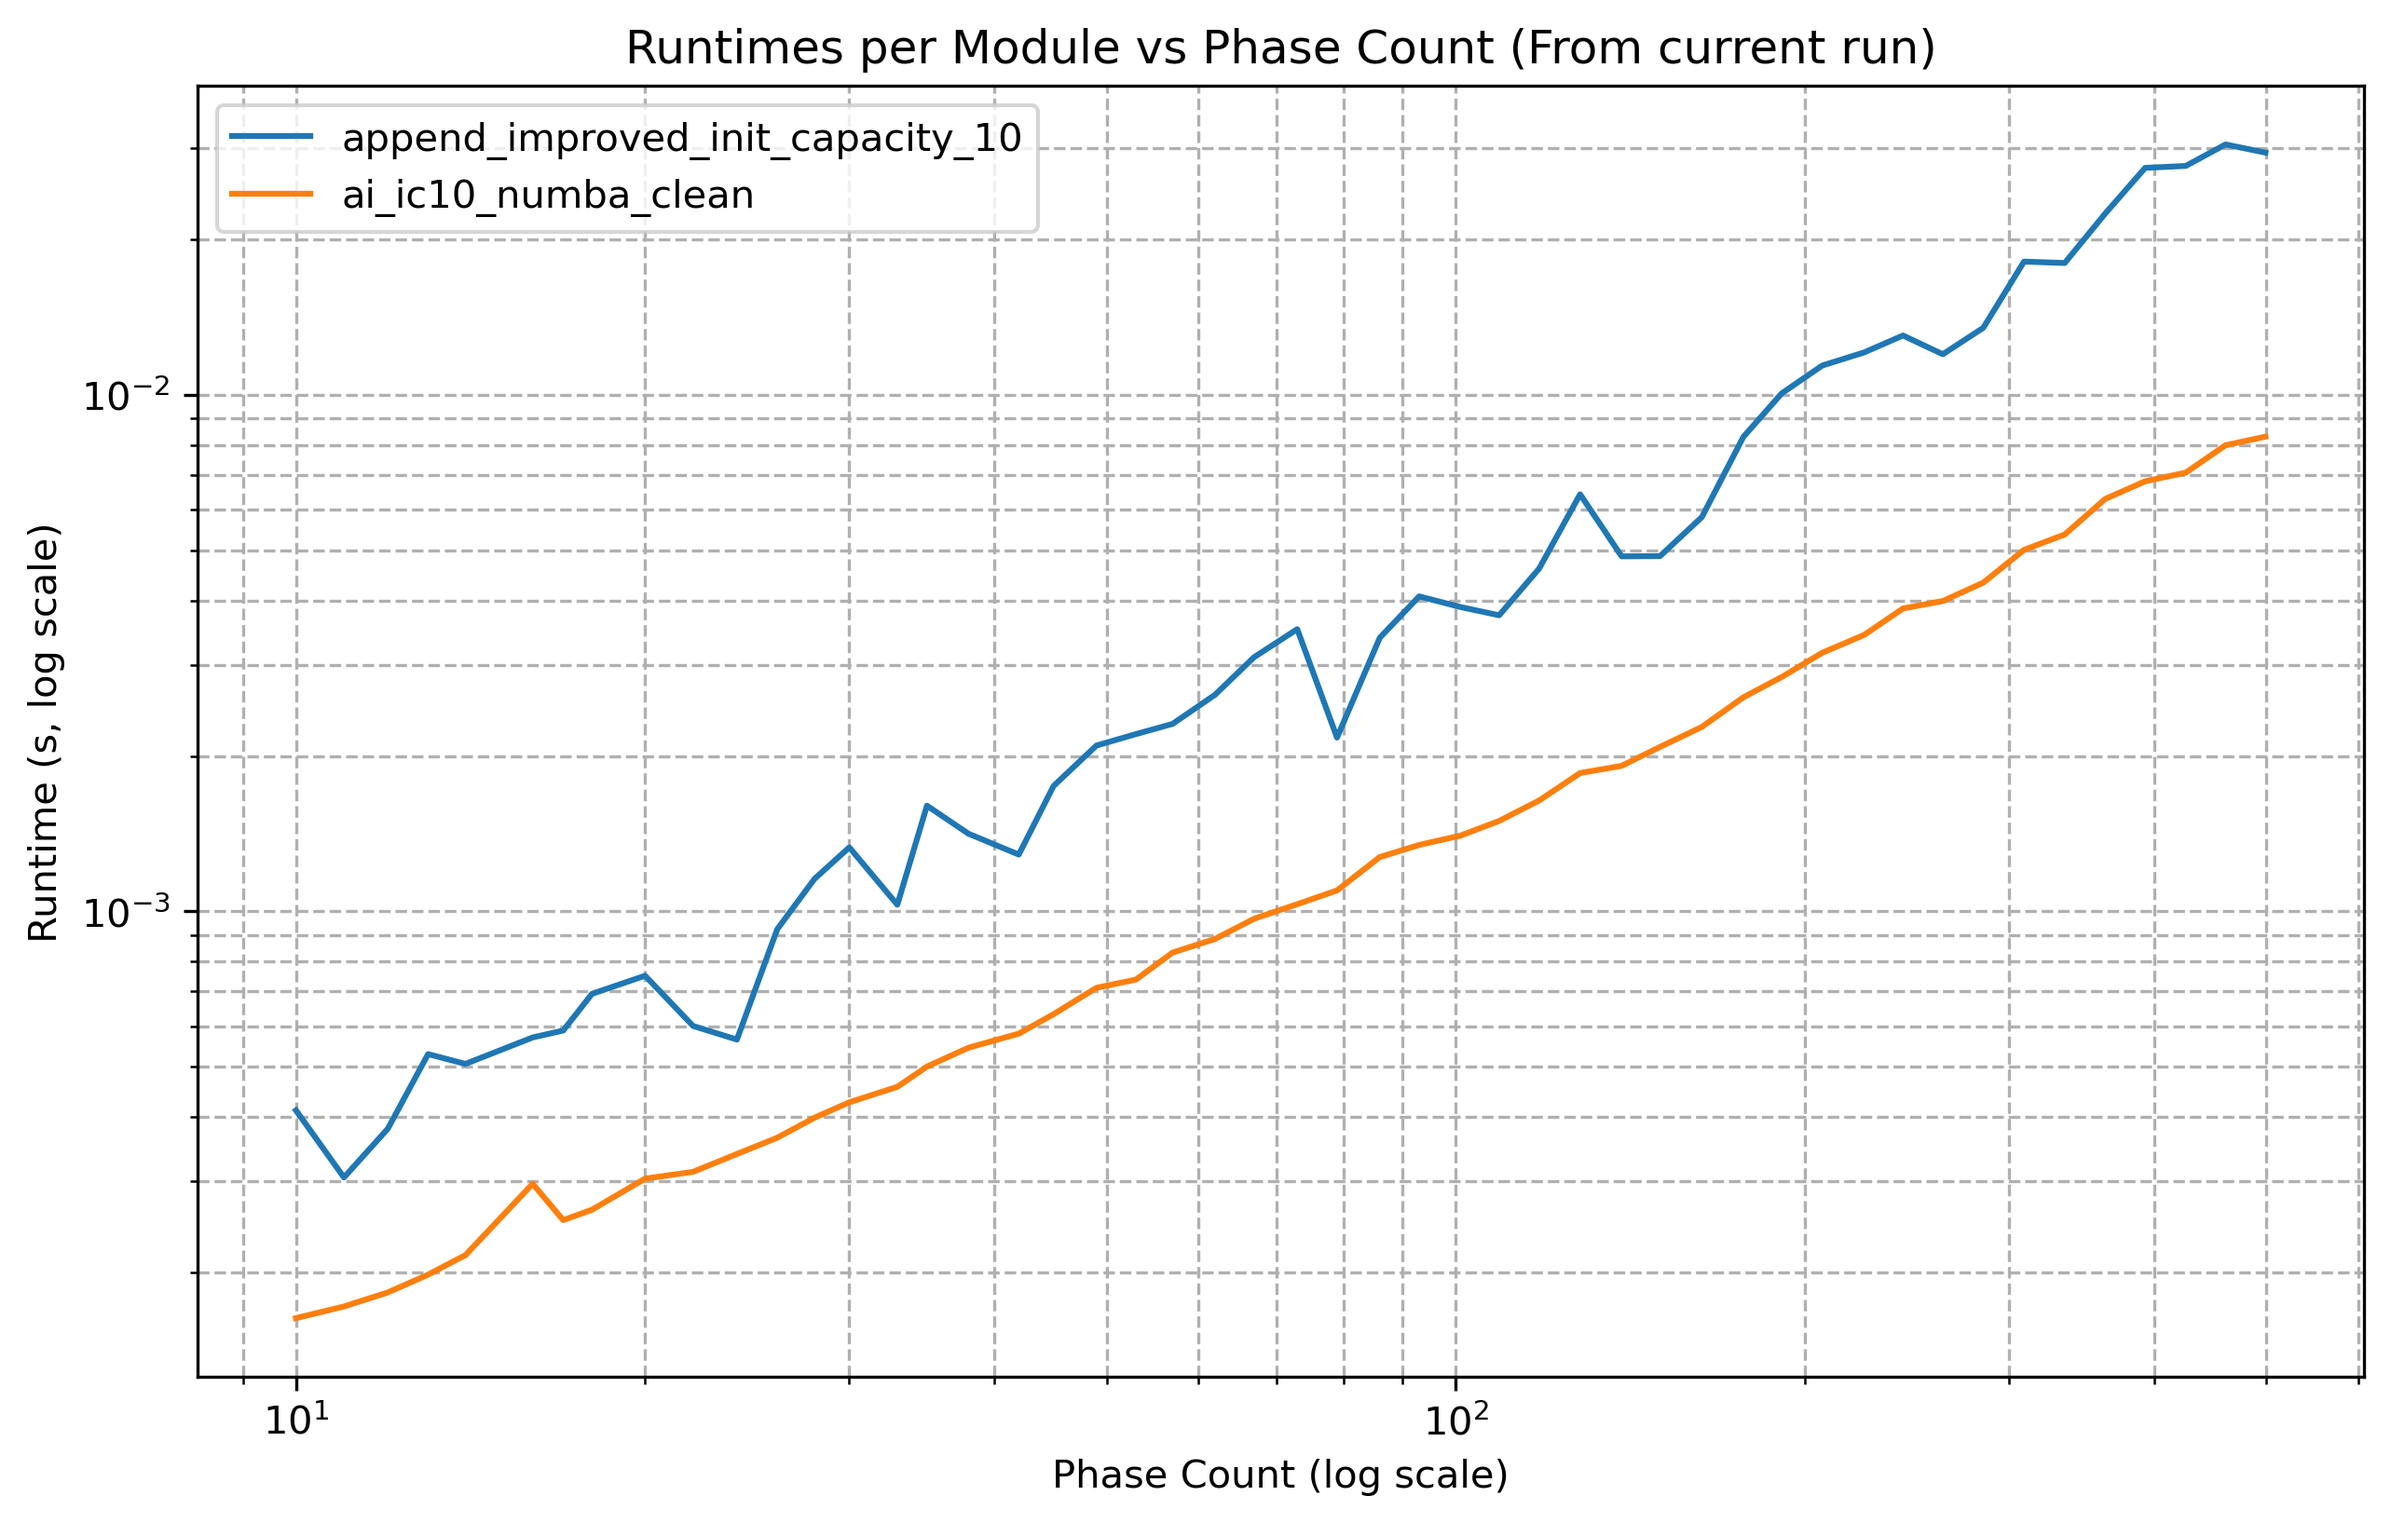
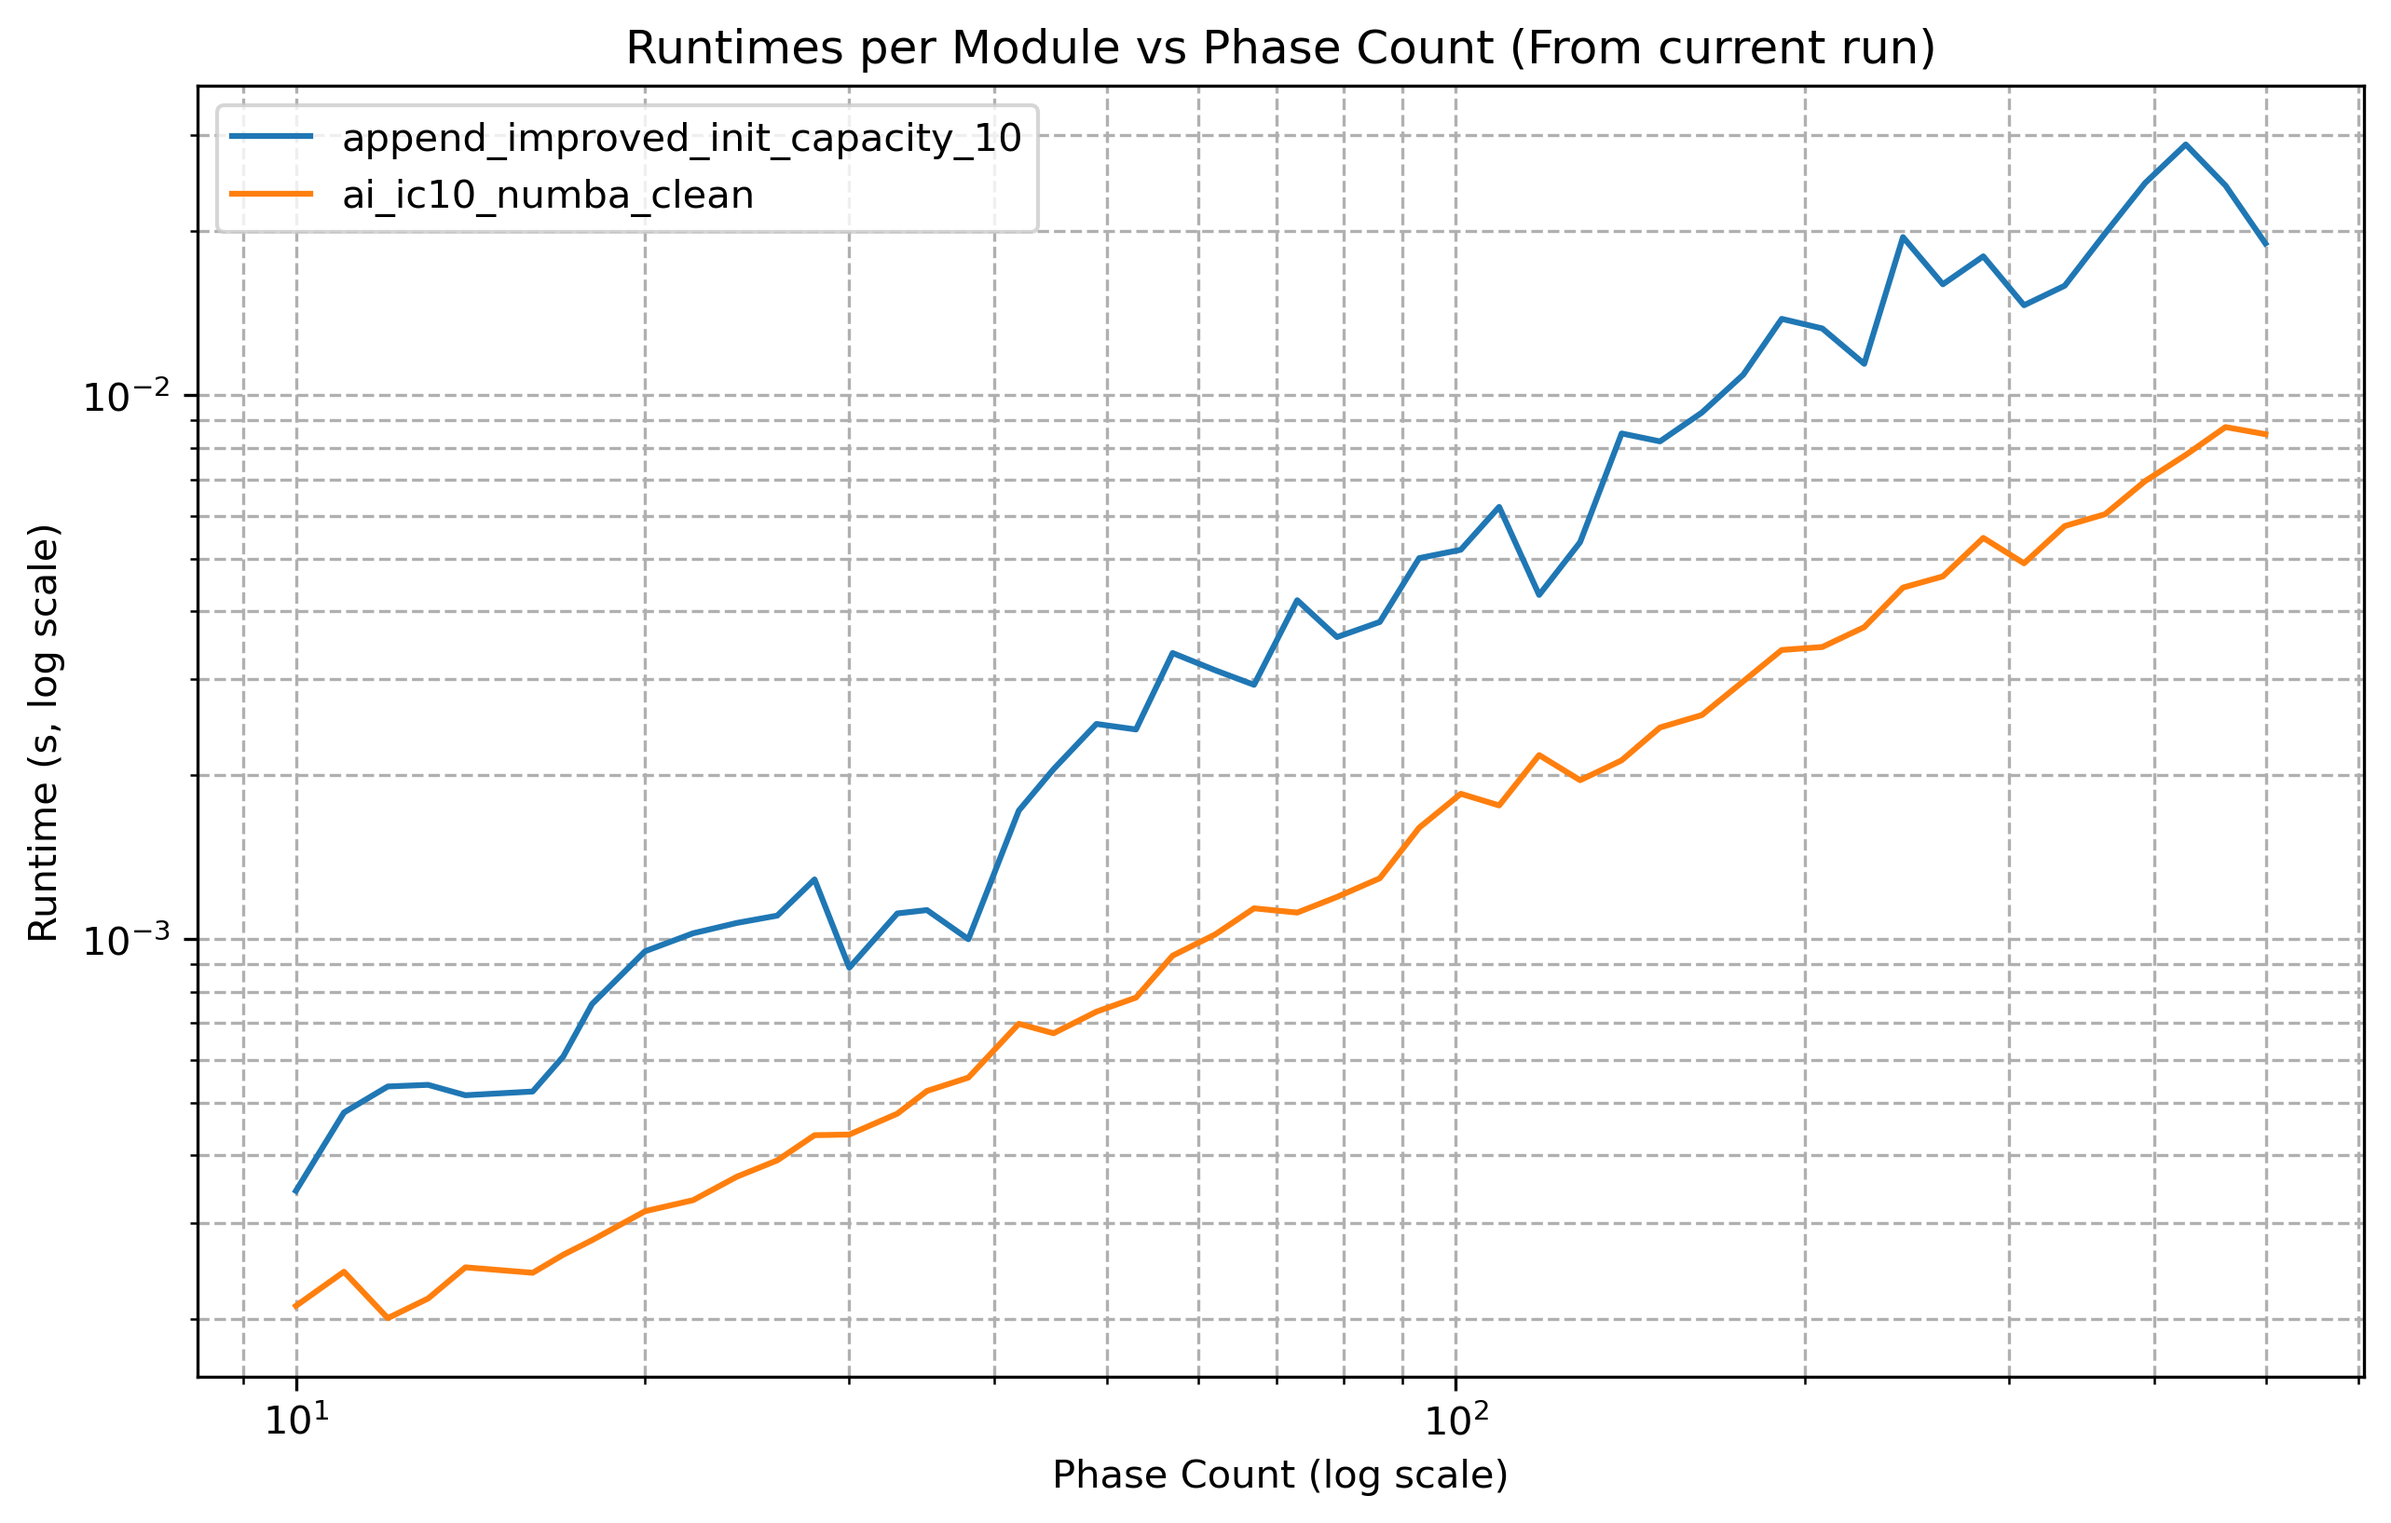
changed init: Each repetition has its own seed

diff --git a/main.py b/main.py
@@ -44,23 +44,27 @@ def import_module(folder_name: str):
     return module
 
 
-def init(worst_case_scenario: bool, seed_list: int(), phase_count: int):
+def init(worst_case_scenario: bool, master_seed: int, phase_count: int, repetition_count: int):
+
     start_time_phases = np.arange(phase_count)
 
     energy_excess_list = []
     energy_deficit_list = []
 
-    for seed in seed_list:
+    for rep_index in range(repetition_count):
+
+        current_seed = master_seed + rep_index
+        rng = np.random.default_rng(current_seed)
 
         if worst_case_scenario:
-            energy_excess_list.append(np.arange(phase_count, 0, -1))
-            energy_deficit_list.append(np.arange(1, phase_count + 1))
-
+            energy_excess = np.arange(phase_count, 0, -1)
+            energy_deficit = np.arange(1, phase_count + 1)
         else:
-            rng = np.random.default_rng(seed)
+            energy_excess = rng.integers(0, 10, phase_count)
+            energy_deficit = rng.integers(0, 10, phase_count)
 
-            energy_excess_list.append(rng.integers(0, 10, phase_count))
-            energy_deficit_list.append(rng.integers(0, 10, phase_count))
+        energy_excess_list.append(energy_excess)
+        energy_deficit_list.append(energy_deficit)
 
     return energy_excess_list, energy_deficit_list, start_time_phases
 
@@ -95,17 +99,15 @@ def do_submethod_analysis(module, energy_excess_list, energy_deficit_list, start
 def do_normal_mode(module, energy_excess_list, energy_deficit_list, start_time_phases, result_dicts, runtimes, repetition_count):
     runtimes_single = []
 
-    for j in range(len(energy_excess_list)):
+    for i in range(repetition_count):
+        start = time.perf_counter()
+        result_dict = module.process_phases(energy_excess_list[i], energy_deficit_list[i], start_time_phases)
+        end = time.perf_counter()
 
-        for i in range(repetition_count):
-            start = time.perf_counter()
-            result_dict = module.process_phases(energy_excess_list[j], energy_deficit_list[j], start_time_phases)
-            end = time.perf_counter()
+        runtimes_single.append(end - start)
 
-            runtimes_single.append(end - start)
-
-            if i == 0 and j == 0:
-                result_dicts.append(result_dict)
+        if i == 0:
+            result_dicts.append(result_dict)
 
     median_runtime = np.median(runtimes_single)
     runtimes.append(median_runtime)
@@ -115,9 +117,10 @@ def do_normal_mode(module, energy_excess_list, energy_deficit_list, start_time_p
 
 def execution_and_analysis(
         modules: list, energy_excess_list, energy_deficit_list, start_time_phases, repetition_count: int, submethod_analysis: bool):
+
     result_dicts = []
     runtimes = []
-
+    
     for m in modules:
         if submethod_analysis:
             do_submethod_analysis(m, energy_excess_list, energy_deficit_list, start_time_phases)
@@ -148,7 +151,7 @@ def has_program_run_long_enough(start_time, phase_count, time_limit):
 
 
 def main(phase_counts: list, versions: list, indices: list, submethod_analysis: bool, repetition_count: int,
-         seed_list, time_limit, worst_case_scenario, phase_count_for_submethod_analysis=20000):
+         master_seed, time_limit, worst_case_scenario, phase_count_for_submethod_analysis=20000):
     modules = get_modules(indices, versions)
     results = []
 
@@ -165,14 +168,14 @@ def main(phase_counts: list, versions: list, indices: list, submethod_analysis: 
 
         if submethod_analysis:
 
-            energy_excess_list, energy_deficit_list, start_time_phases = init(worst_case_scenario, seed_list, phase_count_for_submethod_analysis)
+            energy_excess_list, energy_deficit_list, start_time_phases = init(worst_case_scenario, master_seed, phase_count_for_submethod_analysis, repetition_count)
 
             execution_and_analysis(modules, energy_excess_list, energy_deficit_list, start_time_phases, 1, submethod_analysis)
             break
 
         else:
 
-            energy_excess_list, energy_deficit_list, start_time_phases = init(worst_case_scenario, seed_list, phase_count)
+            energy_excess_list, energy_deficit_list, start_time_phases = init(worst_case_scenario, master_seed, phase_count, repetition_count)
 
             result_dicts, runtimes = (execution_and_analysis
                                       (modules, energy_excess_list, energy_deficit_list, start_time_phases, repetition_count, submethod_analysis))
@@ -218,7 +221,7 @@ if __name__ == '__main__':
         cfg["indices"],
         cfg["submethod_analysis"],
         cfg["repetition_count"],
-        cfg["seed_list"],
+        cfg["master_seed"],
         time_limit,
         cfg["worst_case_scenario"]
     )

diff --git a/helper/json_methodes.py b/helper/json_methodes.py
@@ -5,6 +5,7 @@ from pathlib import Path
 
 delim = ("-------------------------------------------------------------------------------------------------------")
 
+
 def load_config(filename="setup.json"):
 
     path = Path(sys.modules['__main__'].__file__).parent / filename
@@ -25,7 +26,7 @@ def save_to_json(cfg, results):
     for save_idx in cfg["indices_to_save"]:
         version_name = cfg["versions"][save_idx]
         output_json[version_name] = {
-            "seed_list": cfg["seed_list"],
+            "master_seed": cfg["master_seed"],
             "repetition_count": cfg["repetition_count"],
             "start_phase_count": cfg["start_phase_count"],
             "end_phase_count": cfg["end_phase_count"],
